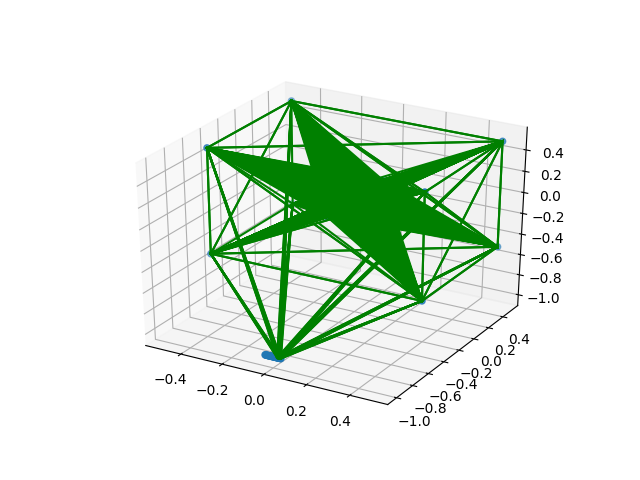
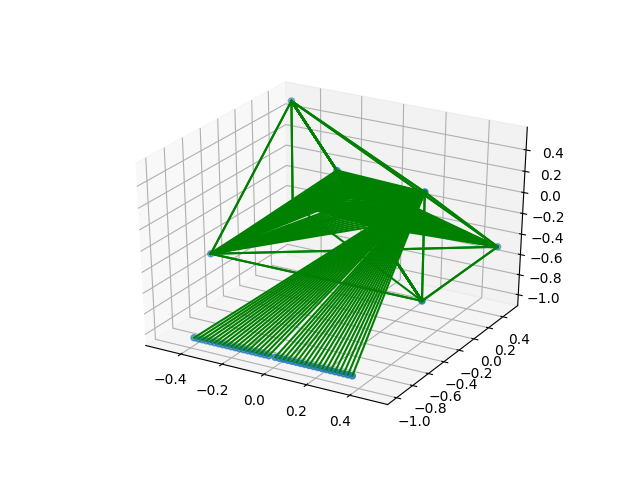
yeah buddy

Changed region(s): [[0.2812, 0.1875, 0.8125, 0.8125]]

diff --git a/trading_purples.py b/trading_purples.py
@@ -25,9 +25,9 @@ class PurpleTrader:
     params = {"initial_depth": 2, 
             "max_depth": 6, 
             "variance_threshold": 0.034, 
-            "band_threshold": 0.0034, 
+            "band_threshold": 0.034, 
             "iteration_level": 3,
-            "division_threshold": 0.0013, 
+            "division_threshold": 0.013, 
             "max_weight": 5.0, 
             "activation": "tanh"}
 
@@ -54,11 +54,14 @@ class PurpleTrader:
         self.inputs = self.hs.hist_shaped.shape[0]*(self.hs.hist_shaped[0].shape[1])
         self.outputs = self.hs.hist_shaped.shape[0]
         sign = 1
+        #loop through symbols and there factors
+        #place nodes by alternating across the axi 
+        #scales the distance from axis by 100
         for ix in range(1,self.outputs+1):
             sign = sign *-1
             self.out_shapes.append((0.0-(sign*.01*ix), -1.0, -1.0))
             for ix2 in range(1,(self.inputs//self.outputs)+1):
-                self.in_shapes.append((0.0-(sign*.01*ix2), 0.0+(sign*.01*ix), 0.0-(sign*.01*ix2)))
+                self.in_shapes.append((0.0+(sign*.01*ix2), 0.0-(sign*.01*ix2), 0.0-(sign*.01*ix2)))
         self.subStrate = Substrate(self.in_shapes, self.out_shapes)
         self.epoch_len = 89
         
